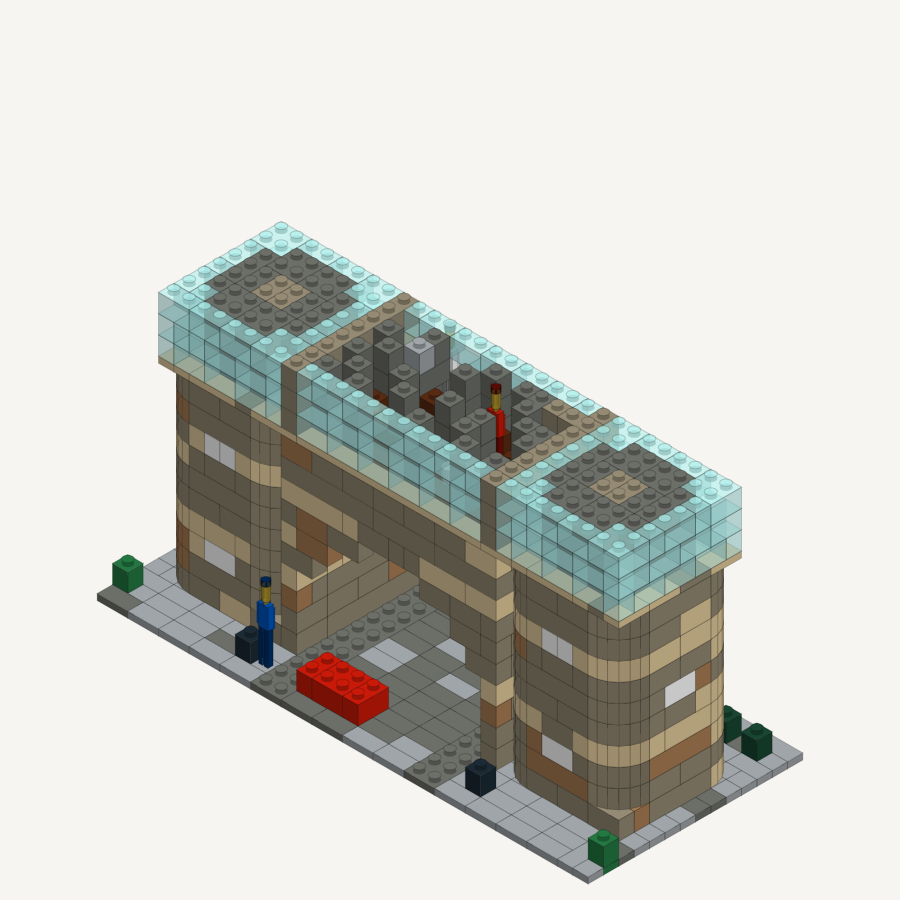
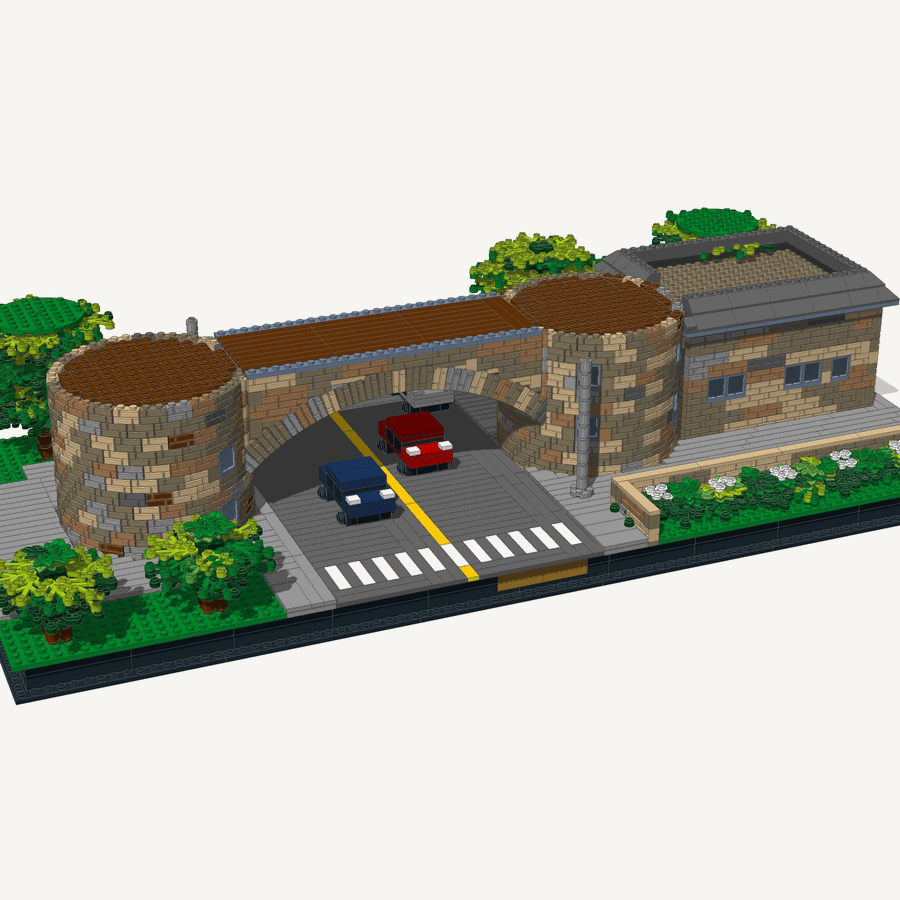
The Towers in real LEGO parts
The Towers page now shows the design built piece by piece from real LEGO
parts instead of the engine's: round granite towers of 1x2 masonry brick,
slate cones, a voussoir arch over Ocean Road, the great room's window
ribbon, dormers, belfry, chimney and the stone wing. 4,422 pieces, every
one on Pick a Brick. Four turns, lights on, five peeled views, and its
own parts list and estimate. Nothing else on the site changes.

diff --git a/gallery/the-towers/index.html b/gallery/the-towers/index.html
@@ -4,7 +4,7 @@
 <meta charset="utf-8">
 <meta name="viewport" content="width=device-width, initial-scale=1">
 <title>The Towers — Voxeloom</title>
-<meta name="description" content="The Narragansett Towers: two round granite towers under conical caps, the broad segmental arch that carries Ocean Road between them, and the glazed great room bridging the road above it under a steep dormered roof.">
+<meta name="description" content="The Narragansett Towers in real LEGO parts: two round granite towers under slate cones, the arch that carries Ocean Road between them, the great room's ribbon of windows under a dormered roof and an open belfry, and the stone wing beside them.">
 <link rel="icon" href="/assets/icon-32.png" sizes="32x32" type="image/png">
 <link rel="icon" href="/assets/icon-192.png" sizes="192x192" type="image/png">
 <link rel="apple-touch-icon" href="/assets/icon-180.png">
@@ -39,7 +39,7 @@
   <div class="wrap">
     <p class="eyebrow"><a href="/gallery">Gallery</a> · The Towers</p>
     <h2>The Towers</h2>
-    <p class="lead">The Narragansett Towers: two round granite towers under conical caps, the broad segmental arch that carries Ocean Road between them, and the glazed great room bridging the road above it under a steep dormered roof.</p>
+    <p class="lead">The Narragansett Towers in real LEGO parts: two round granite towers under slate cones, the arch that carries Ocean Road between them, the great room's ribbon of windows under a dormered roof and an open belfry, and the stone wing beside them.</p>
 
     <div class="stage flip">
       <div>
@@ -54,14 +54,14 @@
             
           </div>
           <div class="peel">
-            <label for="layer" id="layerLabel">All 23 courses</label>
+            <label for="layer" id="layerLabel">All 31 courses</label>
             <input type="range" id="layer" min="0" max="5" value="5" step="1">
             <p class="hint">Drag to take the model apart and see the rooms inside.</p>
           </div>
         </div>
 
-        <dl class="facts" style="margin-top:22px"><dt>Size</dt><dd>32 × 14 studs</dd><dt>Height</dt><dd>23 courses</dd><dt>Pieces</dt><dd>1,606</dd><dt>Different pieces</dt><dd>98</dd><dt>Estimate</dt><dd>$393.99</dd><dt>Stands up</dt><dd>Yes — every piece is held</dd></dl>
-        <p class="note grey" style="margin-top:16px"><strong>Changed while building it.</strong> 848 brick(s) were added underneath to hold up pieces that had nothing beneath them. 2 brick(s) were taken out because nothing could hold them up. The set stands; those details are not in it.</p>
+        <dl class="facts" style="margin-top:22px"><dt>Size</dt><dd>86 × 40 studs</dd><dt>Height</dt><dd>31 courses</dd><dt>Pieces</dt><dd>4,422</dd><dt>Different pieces</dt><dd>181</dd><dt>Estimate</dt><dd>$1,330.43</dd><dt>Built from</dt><dd>Real LEGO parts, every one on Pick a Brick</dd></dl>
+        
 
         <div class="actions">
           <a class="btn primary" href="mailto:hello@voxeloom.com?subject=A%20model%20of%20my%20house">Ask about one like this</a>
@@ -77,23 +77,22 @@
 
         <div class="card" id="tabParts">
           <h3>Parts</h3>
-          <p class="small muted">1,606 pieces across 98 lines.</p>
+          <p class="small muted">4,422 pieces across 181 lines.</p>
           <div class="scroller">
             <table>
               <thead><tr><th>How many</th><th>Piece</th><th>Colour</th></tr></thead>
-              <tbody><tr><td>226</td><td>Cone 1x1</td><td><span class="chip" style="background:#6c6e68"></span>Dark Bluish Gray</td></tr><tr><td>138</td><td>Brick 1x1</td><td><span class="chip" style="background:#6c6e68"></span>Dark Bluish Gray</td></tr><tr><td>119</td><td>Brick 1x2</td><td><span class="chip" style="background:#958a73"></span>Dark Tan</td></tr><tr><td>101</td><td>Brick 1x2</td><td><span class="chip" style="background:#aeefec"></span>Trans-Light Blue</td></tr><tr><td>100</td><td>Brick 1x2</td><td><span class="chip" style="background:#6c6e68"></span>Dark Bluish Gray</td></tr><tr><td>72</td><td>Brick 2x2</td><td><span class="chip" style="background:#6c6e68"></span>Dark Bluish Gray</td></tr><tr><td>66</td><td>Plate 1x2</td><td><span class="chip" style="background:#a0a5a9"></span>Light Bluish Gray</td></tr><tr><td>59</td><td>Brick 1x1</td><td><span class="chip" style="background:#958a73"></span>Dark Tan</td></tr><tr><td>54</td><td>Tile 1x2</td><td><span class="chip" style="background:#a0a5a9"></span>Light Bluish Gray</td></tr><tr><td>50</td><td>Round Corner 2x2</td><td><span class="chip" style="background:#958a73"></span>Dark Tan</td></tr><tr><td>45</td><td>Tile 1x2</td><td><span class="chip" style="background:#6c6e68"></span>Dark Bluish Gray</td></tr><tr><td>42</td><td>Brick 1x1</td><td><span class="chip" style="background:#aeefec"></span>Trans-Light Blue</td></tr><tr><td>38</td><td>Brick 1x3</td><td><span class="chip" style="background:#6c6e68"></span>Dark Bluish Gray</td></tr><tr><td>36</td><td>Slope 45 1x2</td><td><span class="chip" style="background:#6c6e68"></span>Dark Bluish Gray</td></tr><tr><td>25</td><td>Brick 1x2</td><td><span class="chip" style="background:#e4cd9e"></span>Tan</td></tr><tr><td>22</td><td>Brick 1x1</td><td><span class="chip" style="background:#e4cd9e"></span>Tan</td></tr><tr><td>21</td><td>Brick 1x4</td><td><span class="chip" style="background:#958a73"></span>Dark Tan</td></tr><tr><td>19</td><td>Tile 1x1</td><td><span class="chip" style="background:#a0a5a9"></span>Light Bluish Gray</td></tr><tr><td>19</td><td>Brick 2x2</td><td><span class="chip" style="background:#958a73"></span>Dark Tan</td></tr><tr><td>18</td><td>Cone 1x1</td><td><span class="chip" style="background:#a0a5a9"></span>Light Bluish Gray</td></tr><tr><td>18</td><td>Round Corner 2x2</td><td><span class="chip" style="background:#e4cd9e"></span>Tan</td></tr><tr><td>17</td><td>Plate 1x1</td><td><span class="chip" style="background:#a0a5a9"></span>Light Bluish Gray</td></tr><tr><td>13</td><td>Brick 1x1</td><td><span class="chip" style="background:#ffffff"></span>White</td></tr><tr><td>13</td><td>Brick 2x6</td><td><span class="chip" style="background:#958a73"></span>Dark Tan</td></tr><tr><td>13</td><td>Tile 1x1</td><td><span class="chip" style="background:#582a12"></span>Reddish Brown</td></tr><tr><td>12</td><td>Plate 1x2</td><td><span class="chip" style="background:#6c6e68"></span>Dark Bluish Gray</td></tr><tr><td>11</td><td>Brick 2x4</td><td><span class="chip" style="background:#958a73"></span>Dark Tan</td></tr><tr><td>10</td><td>Round Corner 2x2</td><td><span class="chip" style="background:#aa7d55"></span>Medium Nougat</td></tr><tr><td>9</td><td>Plate 1x2</td><td><span class="chip" style="background:#e4cd9e"></span>Tan</td></tr><tr><td>9</td><td>Plate 1x1</td><td><span class="chip" style="background:#582a12"></span>Reddish Brown</td></tr><tr><td>9</td><td>Brick 1x2</td><td><span class="chip" style="background:#aa7d55"></span>Medium Nougat</td></tr><tr><td>8</td><td>Brick 1x4</td><td><span class="chip" style="background:#6c6e68"></span>Dark Bluish Gray</td></tr><tr><td>8</td><td>Plate 2x2</td><td><span class="chip" style="background:#6c6e68"></span>Dark Bluish Gray</td></tr><tr><td>8</td><td>Brick 1x1</td><td><span class="chip" style="background:#aa7d55"></span>Medium Nougat</td></tr><tr><td>7</td><td>Brick 1x1</td><td><span class="chip" style="background:#a0a5a9"></span>Light Bluish Gray</td></tr><tr><td>7</td><td>Brick 2x3</td><td><span class="chip" style="background:#e4cd9e"></span>Tan</td></tr><tr><td>7</td><td>Brick 1x6</td><td><span class="chip" style="background:#958a73"></span>Dark Tan</td></tr><tr><td>7</td><td>Plate 1x2</td><td><span class="chip" style="background:#582a12"></span>Reddish Brown</td></tr><tr><td>6</td><td>Brick 1x2</td><td><span class="chip" style="background:#ffffff"></span>White</td></tr><tr><td>6</td><td>Brick 2x3</td><td><span class="chip" style="background:#6c6e68"></span>Dark Bluish Gray</td></tr><tr><td>6</td><td>Plate 1x2</td><td><span class="chip" style="background:#958a73"></span>Dark Tan</td></tr><tr><td>6</td><td>Brick 2x2</td><td><span class="chip" style="background:#aeefec"></span>Trans-Light Blue</td></tr><tr><td>5</td><td>Brick 1x2</td><td><span class="chip" style="background:#a0a5a9"></span>Light Bluish Gray</td></tr><tr><td>5</td><td>Plate 2x2</td><td><span class="chip" style="background:#e4cd9e"></span>Tan</td></tr><tr><td>5</td><td>Plate 1x1</td><td><span class="chip" style="background:#e4cd9e"></span>Tan</td></tr><tr><td>5</td><td>Brick 1x2</td><td><span class="chip" style="background:#582a12"></span>Reddish Brown</td></tr><tr><td>5</td><td>Plate 1x1</td><td><span class="chip" style="background:#237841"></span>Green</td></tr><tr><td>4</td><td>Plate 1x3</td><td><span class="chip" style="background:#6c6e68"></span>Dark Bluish Gray</td></tr><tr><td>4</td><td>Plate 1x1</td><td><span class="chip" style="background:#6c6e68"></span>Dark Bluish Gray</td></tr><tr><td>4</td><td>Tile 1x1</td><td><span class="chip" style="background:#6c6e68"></span>Dark Bluish Gray</td></tr><tr><td>4</td><td>Brick 1x1</td><td><span class="chip" style="background:#184632"></span>Dark Green</td></tr><tr><td>4</td><td>Brick 1x4</td><td><span class="chip" style="background:#aa7d55"></span>Medium Nougat</td></tr><tr><td>3</td><td>Brick 1x1</td><td><span class="chip" style="background:#1b2a34"></span>Black</td></tr><tr><td>3</td><td>Lantern 1x1</td><td><span class="chip" style="background:#1b2a34"></span>Black</td></tr><tr><td>3</td><td>Brick 1x6</td><td><span class="chip" style="background:#6c6e68"></span>Dark Bluish Gray</td></tr><tr><td>3</td><td>Brick 1x4</td><td><span class="chip" style="background:#e4cd9e"></span>Tan</td></tr><tr><td>3</td><td>Brick 2x2</td><td><span class="chip" style="background:#e4cd9e"></span>Tan</td></tr><tr><td>3</td><td>Brick 1x3</td><td><span class="chip" style="background:#e4cd9e"></span>Tan</td></tr><tr><td>3</td><td>Plate 1x12</td><td><span class="chip" style="background:#e4cd9e"></span>Tan</td></tr><tr><td>3</td><td>Plate 1x3</td><td><span class="chip" style="background:#e4cd9e"></span>Tan</td></tr><tr><td>3</td><td>Brick 1x3</td><td><span class="chip" style="background:#582a12"></span>Reddish Brown</td></tr><tr><td>3</td><td>Brick 1x1</td><td><span class="chip" style="background:#582a12"></span>Reddish Brown</td></tr><tr><td>3</td><td>Plate 1x4</td><td><span class="chip" style="background:#582a12"></span>Reddish Brown</td></tr><tr><td>3</td><td>Tile 1x2</td><td><span class="chip" style="background:#582a12"></span>Reddish Brown</td></tr><tr><td>2</td><td>Brick 1x4</td><td><span class="chip" style="background:#a0a5a9"></span>Light Bluish Gray</td></tr><tr><td>2</td><td>Slope 45 1x2</td><td><span class="chip" style="background:#a0a5a9"></span>Light Bluish Gray</td></tr><tr><td>2</td><td>Dome 2x2</td><td><span class="chip" style="background:#a0a5a9"></span>Light Bluish Gray</td></tr><tr><td>2</td><td>Plate 2x14</td><td><span class="chip" style="background:#6c6e68"></span>Dark Bluish Gray</td></tr><tr><td>2</td><td>Slope 45 1x1</td><td><span class="chip" style="background:#6c6e68"></span>Dark Bluish Gray</td></tr><tr><td>2</td><td>Brick 1x2</td><td><span class="chip" style="background:#c91a09"></span>Red</td></tr><tr><td>2</td><td>Brick 2x6</td><td><span class="chip" style="background:#e4cd9e"></span>Tan</td></tr><tr><td>2</td><td>Brick 2x4</td><td><span class="chip" style="background:#e4cd9e"></span>Tan</td></tr><tr><td>2</td><td>Plate 1x3</td><td><span class="chip" style="background:#582a12"></span>Reddish Brown</td></tr><tr><td>2</td><td>Brick 1x1</td><td><span class="chip" style="background:#237841"></span>Green</td></tr><tr><td>2</td><td>Brick 1x2</td><td><span class="chip" style="background:#0055bf"></span>Blue</td></tr><tr><td>1</td><td>Baseplate 32x32</td><td><span class="chip" style="background:#a0a5a9"></span>Light Bluish Gray</td></tr><tr><td>1</td><td>Minifigure 1x1</td><td><span class="chip" style="background:#ffffff"></span>White</td></tr><tr><td>1</td><td>Cup 1x1</td><td><span class="chip" style="background:#ffffff"></span>White</td></tr><tr><td>1</td><td>Slope 45 1x1</td><td><span class="chip" style="background:#a0a5a9"></span>Light Bluish Gray</td></tr><tr><td>1</td><td>Brick 2x8</td><td><span class="chip" style="background:#6c6e68"></span>Dark Bluish Gray</td></tr><tr><td>1</td><td>Brick 2x6</td><td><span class="chip" style="background:#6c6e68"></span>Dark Bluish Gray</td></tr><tr><td>1</td><td>Brick 1x8</td><td><span class="chip" style="background:#6c6e68"></span>Dark Bluish Gray</td></tr><tr><td>1</td><td>Brick 2x2</td><td><span class="chip" style="background:#c91a09"></span>Red</td></tr><tr><td>1</td><td>Minifigure 1x1</td><td><span class="chip" style="background:#c91a09"></span>Red</td></tr><tr><td>1</td><td>Flag 1x1</td><td><span class="chip" style="background:#c91a09"></span>Red</td></tr><tr><td>1</td><td>Brick 1x6</td><td><span class="chip" style="background:#e4cd9e"></span>Tan</td></tr><tr><td>1</td><td>Plate 2x3</td><td><span class="chip" style="background:#e4cd9e"></span>Tan</td></tr><tr><td>1</td><td>Plate 1x5</td><td><span class="chip" style="background:#e4cd9e"></span>Tan</td></tr><tr><td>1</td><td>Plate 1x1</td><td><span class="chip" style="background:#958a73"></span>Dark Tan</td></tr><tr><td>1</td><td>Tile 1x2</td><td><span class="chip" style="background:#958a73"></span>Dark Tan</td></tr><tr><td>1</td><td>Tile 1x1</td><td><span class="chip" style="background:#958a73"></span>Dark Tan</td></tr><tr><td>1</td><td>Minifigure 1x1</td><td><span class="chip" style="background:#958a73"></span>Dark Tan</td></tr><tr><td>1</td><td>Plate 1x6</td><td><span class="chip" style="background:#582a12"></span>Reddish Brown</td></tr><tr><td>1</td><td>Tile 1x3</td><td><span class="chip" style="background:#582a12"></span>Reddish Brown</td></tr><tr><td>1</td><td>Plate 1x1</td><td><span class="chip" style="background:#4b9f4a"></span>Bright Green</td></tr><tr><td>1</td><td>Brick 2x2</td><td><span class="chip" style="background:#0055bf"></span>Blue</td></tr><tr><td>1</td><td>Minifigure 1x1</td><td><span class="chip" style="background:#0055bf"></span>Blue</td></tr><tr><td>1</td><td>Brick 2x2</td><td><span class="chip" style="background:#aa7d55"></span>Medium Nougat</td></tr></tbody>
+              <tbody><tr><td>441</td><td>Slope Brick 45 2x1</td><td><span class="chip" style="background:#646464"></span>Dark Bluish Gray</td></tr><tr><td>309</td><td>Brick 1x2 with Embossed Bricks</td><td><span class="chip" style="background:#897d62"></span>Dark Tan</td></tr><tr><td>195</td><td>Plant Leaves 4x3</td><td><span class="chip" style="background:#00852b"></span>Green</td></tr><tr><td>176</td><td>Brick 1x8</td><td><span class="chip" style="background:#1b2a34"></span>Black</td></tr><tr><td>164</td><td>Plant Leaves 4x3</td><td><span class="chip" style="background:#a5ca18"></span>Lime</td></tr><tr><td>155</td><td>Brick 1x2 with Embossed Bricks</td><td><span class="chip" style="background:#d7ba8c"></span>Tan</td></tr><tr><td>148</td><td>Plate 1x2</td><td><span class="chip" style="background:#70819a"></span>Sand Blue</td></tr><tr><td>139</td><td>Plant Leaves 4x3</td><td><span class="chip" style="background:#00451a"></span>Dark Green</td></tr><tr><td>138</td><td>Brick 1x2 with Embossed Bricks</td><td><span class="chip" style="background:#aa7d55"></span>Medium Nougat</td></tr><tr><td>116</td><td>Brick 1x1 Round with Hollow Stud</td><td><span class="chip" style="background:#00451a"></span>Dark Green</td></tr><tr><td>102</td><td>Slope Brick 45 2x4</td><td><span class="chip" style="background:#646464"></span>Dark Bluish Gray</td></tr><tr><td>100</td><td>Tile 1x8</td><td><span class="chip" style="background:#646464"></span>Dark Bluish Gray</td></tr><tr><td>92</td><td>Tile 1x8</td><td><span class="chip" style="background:#969696"></span>Light Bluish Gray</td></tr><tr><td>85</td><td>Plant Leaves 6x5</td><td><span class="chip" style="background:#00451a"></span>Dark Green</td></tr><tr><td>80</td><td>Brick 1x1</td><td><span class="chip" style="background:#1b2a34"></span>Black</td></tr><tr><td>72</td><td>Brick 1x2</td><td><span class="chip" style="background:#897d62"></span>Dark Tan</td></tr><tr><td>67</td><td>Plant Leaves 6x5</td><td><span class="chip" style="background:#00852b"></span>Green</td></tr><tr><td>66</td><td>Brick 1x4 with Embossed Bricks</td><td><span class="chip" style="background:#897d62"></span>Dark Tan</td></tr><tr><td>65</td><td>Window 1x2x2 without Sill</td><td><span class="chip" style="background:#70819a"></span>Sand Blue</td></tr><tr><td>65</td><td>Glass for Window 1x2x2 without Sill</td><td><span class="chip" style="background:#fcfcfc"></span>Trans-Clear</td></tr><tr><td>60</td><td>Brick 1x6</td><td><span class="chip" style="background:#1b2a34"></span>Black</td></tr><tr><td>58</td><td>Brick 1x2 with Embossed Bricks</td><td><span class="chip" style="background:#969696"></span>Light Bluish Gray</td></tr><tr><td>55</td><td>Plate 1x1 Round with 3 Leaves</td><td><span class="chip" style="background:#00852b"></span>Green</td></tr><tr><td>53</td><td>Brick 1x2</td><td><span class="chip" style="background:#646464"></span>Dark Bluish Gray</td></tr><tr><td>51</td><td>Brick 1x1</td><td><span class="chip" style="background:#897d62"></span>Dark Tan</td></tr><tr><td>43</td><td>Brick 1x2</td><td><span class="chip" style="background:#aa7d55"></span>Medium Nougat</td></tr><tr><td>42</td><td>Brick 1x1 Round with Hollow Stud</td><td><span class="chip" style="background:#5f3109"></span>Reddish Brown</td></tr><tr><td>42</td><td>Plate 1x1 Round with 3 Leaves</td><td><span class="chip" style="background:#00451a"></span>Dark Green</td></tr><tr><td>41</td><td>Brick 1x2</td><td><span class="chip" style="background:#d7ba8c"></span>Tan</td></tr><tr><td>40</td><td>Brick 1x4</td><td><span class="chip" style="background:#1b2a34"></span>Black</td></tr><tr><td>39</td><td>Plate 1x1</td><td><span class="chip" style="background:#897d62"></span>Dark Tan</td></tr><tr><td>39</td><td>Plate 1x4</td><td><span class="chip" style="background:#70819a"></span>Sand Blue</td></tr><tr><td>38</td><td>Brick 1x4 with Embossed Bricks</td><td><span class="chip" style="background:#d7ba8c"></span>Tan</td></tr><tr><td>35</td><td>Brick 1x1</td><td><span class="chip" style="background:#d7ba8c"></span>Tan</td></tr><tr><td>35</td><td>Slope Brick 45 2x1 Double</td><td><span class="chip" style="background:#646464"></span>Dark Bluish Gray</td></tr><tr><td>35</td><td>Brick 1x2 with Embossed Bricks</td><td><span class="chip" style="background:#646464"></span>Dark Bluish Gray</td></tr><tr><td>31</td><td>Brick 1x4 with Embossed Bricks</td><td><span class="chip" style="background:#aa7d55"></span>Medium Nougat</td></tr><tr><td>30</td><td>Brick 1x1 Round with Hollow Stud</td><td><span class="chip" style="background:#969696"></span>Light Bluish Gray</td></tr><tr><td>29</td><td>Slope Brick 45 2x2 Double Convex</td><td><span class="chip" style="background:#646464"></span>Dark Bluish Gray</td></tr><tr><td>29</td><td>Plate 1x1 Round with 3 Leaves</td><td><span class="chip" style="background:#58ab41"></span>Bright Green</td></tr><tr><td>26</td><td>Plate 1x1</td><td><span class="chip" style="background:#646464"></span>Dark Bluish Gray</td></tr><tr><td>26</td><td>Tile 1x8</td><td><span class="chip" style="background:#5f3109"></span>Reddish Brown</td></tr><tr><td>26</td><td>Slope Brick 31 1x1x0.667</td><td><span class="chip" style="background:#646464"></span>Dark Bluish Gray</td></tr><tr><td>25</td><td>Brick 1x1</td><td><span class="chip" style="background:#aa7d55"></span>Medium Nougat</td></tr><tr><td>20</td><td>Brick 1x4 with Embossed Bricks</td><td><span class="chip" style="background:#646464"></span>Dark Bluish Gray</td></tr><tr><td>20</td><td>Plate 1x1 with 5 Petals</td><td><span class="chip" style="background:#f4f4f4"></span>White</td></tr><tr><td>20</td><td>Brick 2x4</td><td><span class="chip" style="background:#1b2a34"></span>Black</td></tr><tr><td>19</td><td>Slope Brick 45 2x2</td><td><span class="chip" style="background:#646464"></span>Dark Bluish Gray</td></tr><tr><td>19</td><td>Brick 1x2 with Embossed Bricks</td><td><span class="chip" style="background:#5f3109"></span>Reddish Brown</td></tr><tr><td>18</td><td>Plate 1x1</td><td><span class="chip" style="background:#969696"></span>Light Bluish Gray</td></tr><tr><td>18</td><td>Plate 1x1 Round with 3 Leaves</td><td><span class="chip" style="background:#a5ca18"></span>Lime</td></tr><tr><td>17</td><td>Brick 1x4 with Embossed Bricks</td><td><span class="chip" style="background:#969696"></span>Light Bluish Gray</td></tr><tr><td>17</td><td>Plate 1x4</td><td><span class="chip" style="background:#897d62"></span>Dark Tan</td></tr><tr><td>16</td><td>Brick 1x2</td><td><span class="chip" style="background:#1b2a34"></span>Black</td></tr><tr><td>16</td><td>Tile 1x1 with Groove</td><td><span class="chip" style="background:#969696"></span>Light Bluish Gray</td></tr><tr><td>15</td><td>Slope Brick 45 2x2 Double</td><td><span class="chip" style="background:#646464"></span>Dark Bluish Gray</td></tr><tr><td>15</td><td>Plate 4x4 Round with Hole and Snapstud</td><td><span class="chip" style="background:#00852b"></span>Green</td></tr><tr><td>14</td><td>Plant Leaves 6x5</td><td><span class="chip" style="background:#58ab41"></span>Bright Green</td></tr><tr><td>14</td><td>Brick 1x2</td><td><span class="chip" style="background:#969696"></span>Light Bluish Gray</td></tr><tr><td>14</td><td>Tile 2x4</td><td><span class="chip" style="background:#969696"></span>Light Bluish Gray</td></tr><tr><td>13</td><td>Slope Brick 45 2x3</td><td><span class="chip" style="background:#646464"></span>Dark Bluish Gray</td></tr><tr><td>13</td><td>Plate 2x2 Round with Reduced Axlehole</td><td><span class="chip" style="background:#00852b"></span>Green</td></tr><tr><td>12</td><td>Brick 1x1 Round with Hollow Stud</td><td><span class="chip" style="background:#f4f4f4"></span>White</td></tr><tr><td>12</td><td>Brick 1x1 Round with Hollow Stud</td><td><span class="chip" style="background:#d7ba8c"></span>Tan</td></tr><tr><td>12</td><td>Plate 1x1 Round</td><td><span class="chip" style="background:#1b2a34"></span>Black</td></tr><tr><td>12</td><td>Plate 8x8 Round with Hole and Snapstud</td><td><span class="chip" style="background:#00852b"></span>Green</td></tr><tr><td>12</td><td>Brick 1x1 with Stud on 1 Side</td><td><span class="chip" style="background:#1b2a34"></span>Black</td></tr><tr><td>11</td><td>Tile 1x4 with Groove</td><td><span class="chip" style="background:#f4f4f4"></span>White</td></tr><tr><td>11</td><td>Brick 1x1 Round with Hollow Stud</td><td><span class="chip" style="background:#aa7d55"></span>Medium Nougat</td></tr><tr><td>10</td><td>Plate 16x16 with Underside Ribs</td><td><span class="chip" style="background:#1b2a34"></span>Black</td></tr><tr><td>9</td><td>Tile 1x4 with Groove</td><td><span class="chip" style="background:#969696"></span>Light Bluish Gray</td></tr><tr><td>9</td><td>Brick 1x1</td><td><span class="chip" style="background:#969696"></span>Light Bluish Gray</td></tr><tr><td>9</td><td>Plate 2x8</td><td><span class="chip" style="background:#897d62"></span>Dark Tan</td></tr><tr><td>8</td><td>Tile 1x4 with Groove</td><td><span class="chip" style="background:#646464"></span>Dark Bluish Gray</td></tr><tr><td>8</td><td>Plate 1x1</td><td><span class="chip" style="background:#5f3109"></span>Reddish Brown</td></tr><tr><td>8</td><td>Tile 2x2 with Groove</td><td><span class="chip" style="background:#969696"></span>Light Bluish Gray</td></tr><tr><td>8</td><td>Tile 1x1 with Groove</td><td><span class="chip" style="background:#f4f4f4"></span>White</td></tr><tr><td>8</td><td>Plate 1x4</td><td><span class="chip" style="background:#5f3109"></span>Reddish Brown</td></tr><tr><td>8</td><td>Plate 2x6</td><td><span class="chip" style="background:#70819a"></span>Sand Blue</td></tr><tr><td>7</td><td>Plate 2x2</td><td><span class="chip" style="background:#897d62"></span>Dark Tan</td></tr><tr><td>7</td><td>Plate 1x2</td><td><span class="chip" style="background:#969696"></span>Light Bluish Gray</td></tr><tr><td>7</td><td>Plate 4x8</td><td><span class="chip" style="background:#897d62"></span>Dark Tan</td></tr><tr><td>7</td><td>Plate 1x10</td><td><span class="chip" style="background:#00852b"></span>Green</td></tr><tr><td>7</td><td>Plate 1x12</td><td><span class="chip" style="background:#969696"></span>Light Bluish Gray</td></tr><tr><td>6</td><td>Brick 2x3</td><td><span class="chip" style="background:#1b2a34"></span>Black</td></tr><tr><td>6</td><td>Plate 6x16</td><td><span class="chip" style="background:#00852b"></span>Green</td></tr><tr><td>6</td><td>Plate 4x12</td><td><span class="chip" style="background:#969696"></span>Light Bluish Gray</td></tr><tr><td>6</td><td>Plate 4x4 Round with Hole and Snapstud</td><td><span class="chip" style="background:#f4f4f4"></span>White</td></tr><tr><td>5</td><td>Plate 8x8</td><td><span class="chip" style="background:#897d62"></span>Dark Tan</td></tr><tr><td>5</td><td>Plate 8x16</td><td><span class="chip" style="background:#1b2a34"></span>Black</td></tr><tr><td>4</td><td>Tile 1x4 with Groove</td><td><span class="chip" style="background:#aa7f2e"></span>Pearl Gold</td></tr><tr><td>4</td><td>Plate 2x4</td><td><span class="chip" style="background:#897d62"></span>Dark Tan</td></tr><tr><td>4</td><td>Plate 2x4</td><td><span class="chip" style="background:#70819a"></span>Sand Blue</td></tr><tr><td>4</td><td>Plate 2x3</td><td><span class="chip" style="background:#969696"></span>Light Bluish Gray</td></tr><tr><td>4</td><td>Plate 2x2</td><td><span class="chip" style="background:#5f3109"></span>Reddish Brown</td></tr><tr><td>4</td><td>Plate 6x12</td><td><span class="chip" style="background:#5f3109"></span>Reddish Brown</td></tr><tr><td>4</td><td>Tile 1x2 with Groove</td><td><span class="chip" style="background:#646464"></span>Dark Bluish Gray</td></tr><tr><td>4</td><td>Fence Lattice 1x4x1</td><td><span class="chip" style="background:#646464"></span>Dark Bluish Gray</td></tr><tr><td>4</td><td>Plate 1x6</td><td><span class="chip" style="background:#00852b"></span>Green</td></tr><tr><td>4</td><td>Plate 1x4</td><td><span class="chip" style="background:#969696"></span>Light Bluish Gray</td></tr><tr><td>4</td><td>Plate 2x2 Round with Reduced Axlehole</td><td><span class="chip" style="background:#00451a"></span>Dark Green</td></tr><tr><td>4</td><td>Tile 1x8</td><td><span class="chip" style="background:#fac80a"></span>Yellow</td></tr><tr><td>4</td><td>Tile 1x8</td><td><span class="chip" style="background:#d7ba8c"></span>Tan</td></tr><tr><td>4</td><td>Tile 1x6</td><td><span class="chip" style="background:#969696"></span>Light Bluish Gray</td></tr><tr><td>4</td><td>Tile 2x4</td><td><span class="chip" style="background:#b40000"></span>Red</td></tr><tr><td>4</td><td>Tile 2x4</td><td><span class="chip" style="background:#f4f4f4"></span>White</td></tr><tr><td>4</td><td>Tile 2x4</td><td><span class="chip" style="background:#19325a"></span>Dark Blue</td></tr><tr><td>3</td><td>Plate 2x4</td><td><span class="chip" style="background:#969696"></span>Light Bluish Gray</td></tr><tr><td>3</td><td>Plate 1x1</td><td><span class="chip" style="background:#d7ba8c"></span>Tan</td></tr><tr><td>3</td><td>Brick 1x1 Round with Hollow Stud</td><td><span class="chip" style="background:#aa7f2e"></span>Pearl Gold</td></tr><tr><td>3</td><td>Plate 1x6</td><td><span class="chip" style="background:#969696"></span>Light Bluish Gray</td></tr><tr><td>3</td><td>Cone 1x1 with Stop</td><td><span class="chip" style="background:#646464"></span>Dark Bluish Gray</td></tr><tr><td>3</td><td>Plate 1x12</td><td><span class="chip" style="background:#897d62"></span>Dark Tan</td></tr><tr><td>3</td><td>Tile 1x3</td><td><span class="chip" style="background:#969696"></span>Light Bluish Gray</td></tr><tr><td>3</td><td>Plate 8x16</td><td><span class="chip" style="background:#897d62"></span>Dark Tan</td></tr><tr><td>2</td><td>Cone 2x2x2 with Hollow Stud Open</td><td><span class="chip" style="background:#646464"></span>Dark Bluish Gray</td></tr><tr><td>2</td><td>Slope Brick 75 2x1x3 Inverted</td><td><span class="chip" style="background:#646464"></span>Dark Bluish Gray</td></tr><tr><td>2</td><td>Brick 2x2</td><td><span class="chip" style="background:#1b2a34"></span>Black</td></tr><tr><td>2</td><td>Plate 2x4</td><td><span class="chip" style="background:#b40000"></span>Red</td></tr><tr><td>2</td><td>Plate 2x4</td><td><span class="chip" style="background:#f4f4f4"></span>White</td></tr><tr><td>2</td><td>Plate 2x4</td><td><span class="chip" style="background:#19325a"></span>Dark Blue</td></tr><tr><td>2</td><td>Plate 2x2</td><td><span class="chip" style="background:#969696"></span>Light Bluish Gray</td></tr><tr><td>2</td><td>Plate 1x2</td><td><span class="chip" style="background:#897d62"></span>Dark Tan</td></tr><tr><td>2</td><td>Plate 1x1</td><td><span class="chip" style="background:#00852b"></span>Green</td></tr><tr><td>2</td><td>Plate 1x1</td><td><span class="chip" style="background:#70819a"></span>Sand Blue</td></tr><tr><td>2</td><td>Plate 6x16</td><td><span class="chip" style="background:#1b2a34"></span>Black</td></tr><tr><td>2</td><td>Plate 4x12</td><td><span class="chip" style="background:#897d62"></span>Dark Tan</td></tr><tr><td>2</td><td>Plate 4x6</td><td><span class="chip" style="background:#00852b"></span>Green</td></tr><tr><td>2</td><td>Plate 2x8</td><td><span class="chip" style="background:#5f3109"></span>Reddish Brown</td></tr><tr><td>2</td><td>Plate 4x8</td><td><span class="chip" style="background:#5f3109"></span>Reddish Brown</td></tr><tr><td>2</td><td>Tile 1x2 with Groove</td><td><span class="chip" style="background:#fac80a"></span>Yellow</td></tr><tr><td>2</td><td>Tile 1x2 with Groove</td><td><span class="chip" style="background:#969696"></span>Light Bluish Gray</td></tr><tr><td>2</td><td>Plate 1x3</td><td><span class="chip" style="background:#d7ba8c"></span>Tan</td></tr><tr><td>2</td><td>Plate 1x3</td><td><span class="chip" style="background:#70819a"></span>Sand Blue</td></tr><tr><td>2</td><td>Plate 2x6</td><td><span class="chip" style="background:#00852b"></span>Green</td></tr><tr><td>2</td><td>Plate 2x6</td><td><span class="chip" style="background:#969696"></span>Light Bluish Gray</td></tr><tr><td>2</td><td>Plate 2x2 Round with Reduced Axlehole</td><td><span class="chip" style="background:#969696"></span>Light Bluish Gray</td></tr><tr><td>2</td><td>Plate 2x2 Round with Reduced Axlehole</td><td><span class="chip" style="background:#646464"></span>Dark Bluish Gray</td></tr><tr><td>2</td><td>Plate 2x2 Round with Reduced Axlehole</td><td><span class="chip" style="background:#aa7f2e"></span>Pearl Gold</td></tr><tr><td>2</td><td>Plate 1x10</td><td><span class="chip" style="background:#897d62"></span>Dark Tan</td></tr><tr><td>2</td><td>Plate 16x16 with Underside Ribs</td><td><span class="chip" style="background:#897d62"></span>Dark Tan</td></tr><tr><td>2</td><td>Plate 8x16</td><td><span class="chip" style="background:#969696"></span>Light Bluish Gray</td></tr><tr><td>1</td><td>Plate 2x12</td><td><span class="chip" style="background:#897d62"></span>Dark Tan</td></tr><tr><td>1</td><td>Brick 1x2</td><td><span class="chip" style="background:#5f3109"></span>Reddish Brown</td></tr><tr><td>1</td><td>Brick 1x1</td><td><span class="chip" style="background:#5f3109"></span>Reddish Brown</td></tr><tr><td>1</td><td>Brick 1x1</td><td><span class="chip" style="background:#646464"></span>Dark Bluish Gray</td></tr><tr><td>1</td><td>Plate 1x2</td><td><span class="chip" style="background:#d7ba8c"></span>Tan</td></tr><tr><td>1</td><td>Plate 1x2</td><td><span class="chip" style="background:#aa7d55"></span>Medium Nougat</td></tr><tr><td>1</td><td>Plate 1x1</td><td><span class="chip" style="background:#aa7d55"></span>Medium Nougat</td></tr><tr><td>1</td><td>Plate 4x4</td><td><span class="chip" style="background:#b40000"></span>Red</td></tr><tr><td>1</td><td>Plate 4x4</td><td><span class="chip" style="background:#f4f4f4"></span>White</td></tr><tr><td>1</td><td>Plate 4x4</td><td><span class="chip" style="background:#19325a"></span>Dark Blue</td></tr><tr><td>1</td><td>Plate 4x6</td><td><span class="chip" style="background:#969696"></span>Light Bluish Gray</td></tr><tr><td>1</td><td>Plate 4x8</td><td><span class="chip" style="background:#b40000"></span>Red</td></tr><tr><td>1</td><td>Plate 4x8</td><td><span class="chip" style="background:#f4f4f4"></span>White</td></tr><tr><td>1</td><td>Plate 4x8</td><td><span class="chip" style="background:#969696"></span>Light Bluish Gray</td></tr><tr><td>1</td><td>Plate 4x8</td><td><span class="chip" style="background:#646464"></span>Dark Bluish Gray</td></tr><tr><td>1</td><td>Plate 4x8</td><td><span class="chip" style="background:#19325a"></span>Dark Blue</td></tr><tr><td>1</td><td>Plate 6x8</td><td><span class="chip" style="background:#1b2a34"></span>Black</td></tr><tr><td>1</td><td>Brick 1x1 Round with Hollow Stud</td><td><span class="chip" style="background:#646464"></span>Dark Bluish Gray</td></tr><tr><td>1</td><td>Tile 2x2 with Groove</td><td><span class="chip" style="background:#646464"></span>Dark Bluish Gray</td></tr><tr><td>1</td><td>Tile 2x2 with Groove</td><td><span class="chip" style="background:#aa7d55"></span>Medium Nougat</td></tr><tr><td>1</td><td>Tile 1x2 with Groove</td><td><span class="chip" style="background:#d7ba8c"></span>Tan</td></tr><tr><td>1</td><td>Plate 1x8</td><td><span class="chip" style="background:#897d62"></span>Dark Tan</td></tr><tr><td>1</td><td>Plate 1x8</td><td><span class="chip" style="background:#969696"></span>Light Bluish Gray</td></tr><tr><td>1</td><td>Plate 1x3</td><td><span class="chip" style="background:#00852b"></span>Green</td></tr><tr><td>1</td><td>Plate 1x3</td><td><span class="chip" style="background:#897d62"></span>Dark Tan</td></tr><tr><td>1</td><td>Plate 1x3</td><td><span class="chip" style="background:#aa7d55"></span>Medium Nougat</td></tr><tr><td>1</td><td>Plate 1x6</td><td><span class="chip" style="background:#897d62"></span>Dark Tan</td></tr><tr><td>1</td><td>Plate 1x4</td><td><span class="chip" style="background:#00852b"></span>Green</td></tr><tr><td>1</td><td>Plate 2x6</td><td><span class="chip" style="background:#5f3109"></span>Reddish Brown</td></tr><tr><td>1</td><td>Plate 2x10</td><td><span class="chip" style="background:#5f3109"></span>Reddish Brown</td></tr><tr><td>1</td><td>Plate 6x6</td><td><span class="chip" style="background:#969696"></span>Light Bluish Gray</td></tr><tr><td>1</td><td>Dish 4x4 Inverted</td><td><span class="chip" style="background:#646464"></span>Dark Bluish Gray</td></tr><tr><td>1</td><td>Plate 8x8</td><td><span class="chip" style="background:#969696"></span>Light Bluish Gray</td></tr><tr><td>1</td><td>Plate 2x16</td><td><span class="chip" style="background:#5f3109"></span>Reddish Brown</td></tr><tr><td>1</td><td>Plate 2x16</td><td><span class="chip" style="background:#969696"></span>Light Bluish Gray</td></tr><tr><td>1</td><td>Plate 1x10</td><td><span class="chip" style="background:#969696"></span>Light Bluish Gray</td></tr><tr><td>1</td><td>Tile 1x6</td><td><span class="chip" style="background:#d7ba8c"></span>Tan</td></tr><tr><td>1</td><td>Tile 1x6</td><td><span class="chip" style="background:#aa7d55"></span>Medium Nougat</td></tr><tr><td>1</td><td>Tile 2x4</td><td><span class="chip" style="background:#aa7d55"></span>Medium Nougat</td></tr></tbody>
             </table>
           </div>
           <p class="small muted" style="margin-top:12px">
             Every line is a piece LEGO sells today, in a colour they make it in.
-            It is built in 240 numbered steps, and the instructions come in the box.
           </p>
         </div>
 
         <div class="card" id="tabLights" hidden>
           <h3>Lighting</h3>
-          <p class="muted">115 LEDs, 20 expansion board(s), one USB lead.</p>
-          <p class="small muted">As designed, the spaces behind the glass are closed in, so there is nowhere to run the wiring. Lighting has to be planned into a model from the start — ask for it when you ask for a price.</p>
+          <p class="muted">A light kit is planned for this design when it is ordered.</p>
+          <p class="small muted">The towers and the great room are hollow, so there is room inside to run the wiring to the windows.</p>
           <p class="small muted" style="margin-top:12px">
             A light kit is bought separately and never appears in the parts list.
             Press <strong>Lights on</strong> to see the model after dark.
@@ -117,8 +116,8 @@
 </footer>
 
 <script>
-  var shots = {"turn": ["/img/the-towers/turn-0.png", "/img/the-towers/turn-1.png", "/img/the-towers/turn-2.png", "/img/the-towers/turn-3.png"], "peel": ["/img/the-towers/peel-7.png", "/img/the-towers/peel-10.png", "/img/the-towers/peel-14.png", "/img/the-towers/peel-17.png", "/img/the-towers/peel-21.png"], "night": "/img/the-towers/night.png"};
-  var courses = [7, 10, 14, 17, 21, 23];
+  var shots = {"turn": ["/img/the-towers/turn-0.png", "/img/the-towers/turn-1.png", "/img/the-towers/turn-2.png", "/img/the-towers/turn-3.png"], "night": "/img/the-towers/night.png", "peel": ["/img/the-towers/peel-9.png", "/img/the-towers/peel-14.png", "/img/the-towers/peel-19.png", "/img/the-towers/peel-23.png", "/img/the-towers/peel-28.png"]};
+  var courses = [9, 14, 19, 23, 28, 31];
   var assembly = null;
 </script>
 <script src="/assets/model.js?v=a4cfe313c2"></script>
